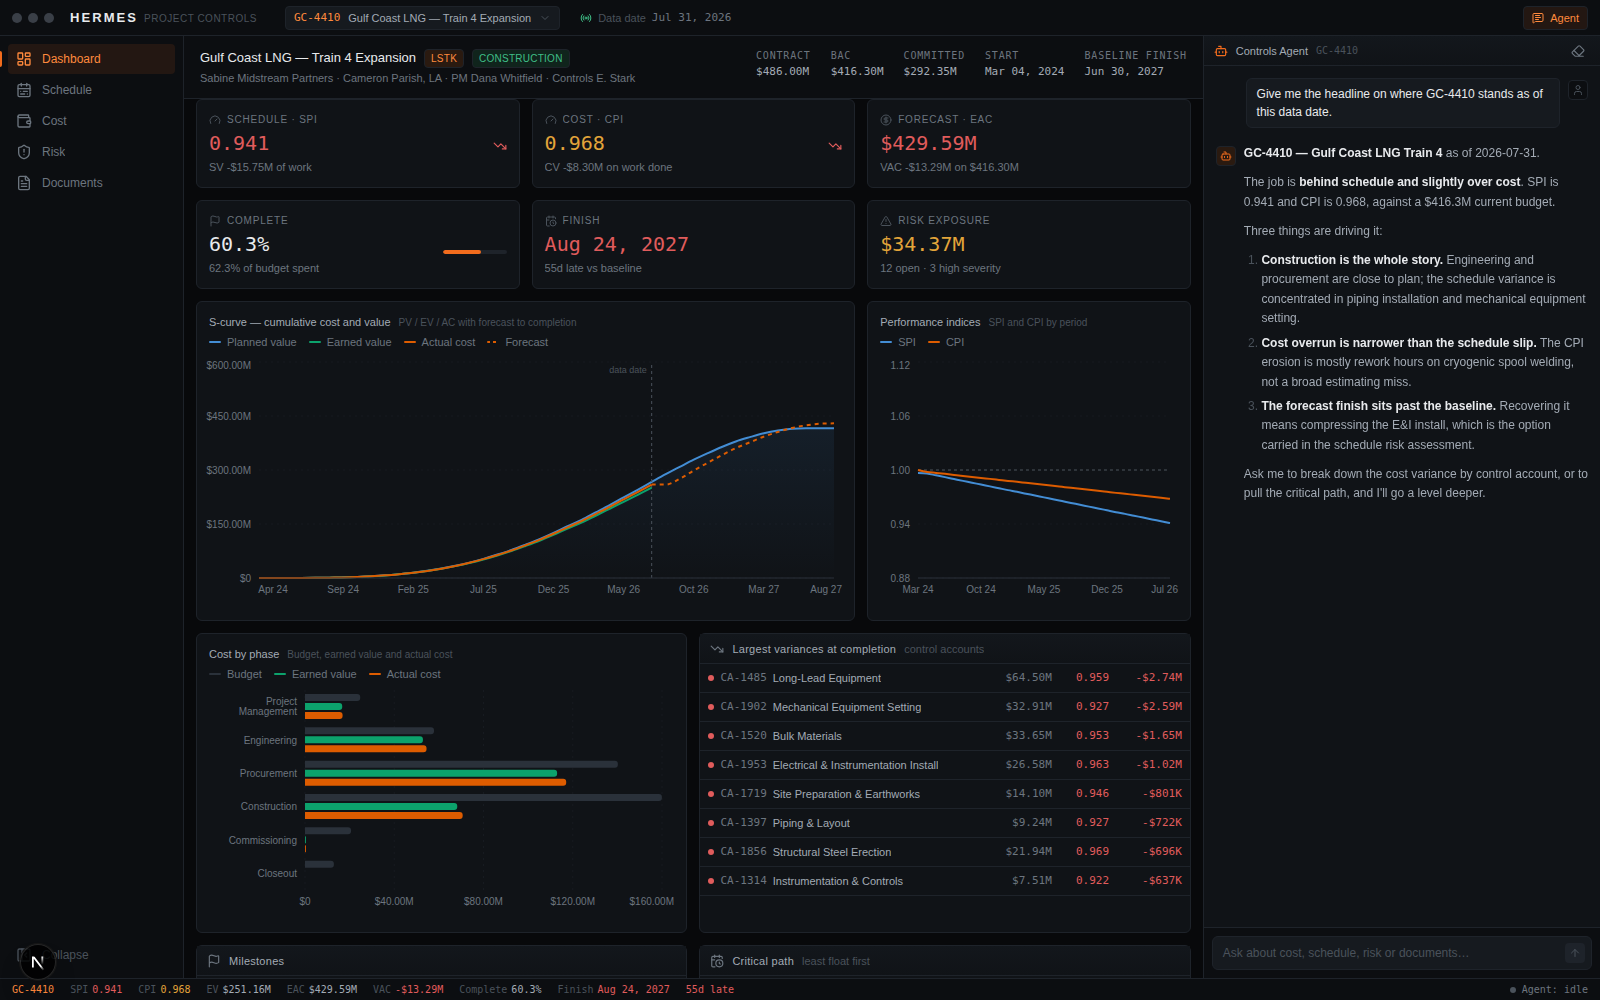
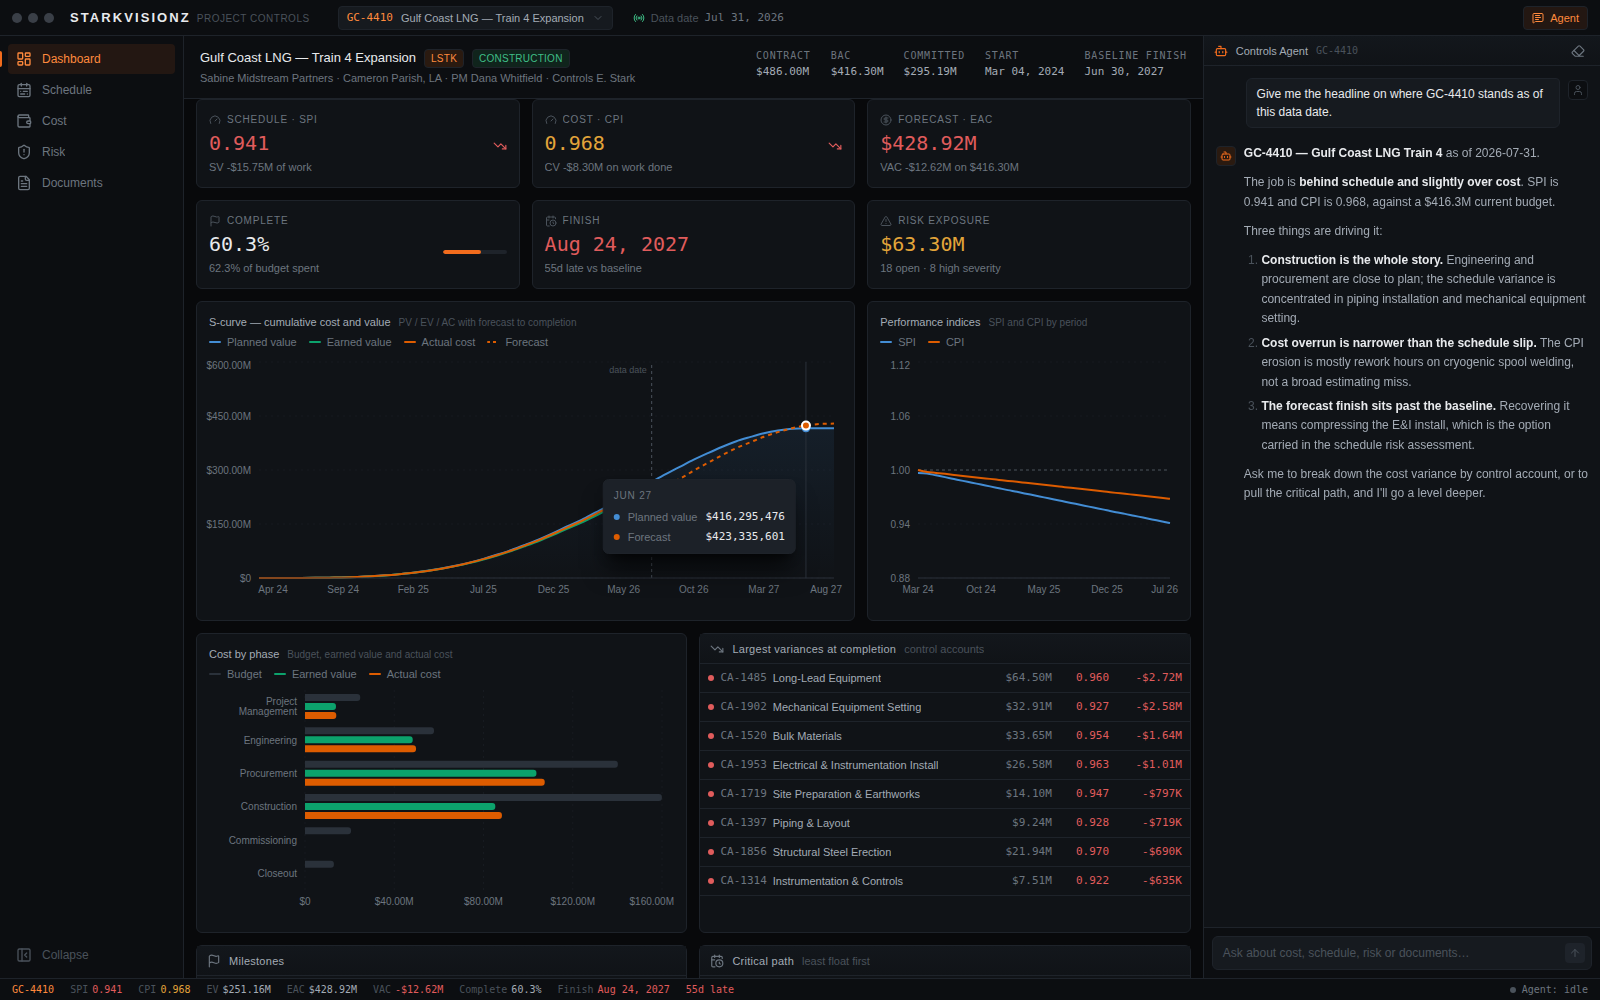
Rebrand from Hermes to Project Starkvisionz
Renames the product throughout: UI wordmark, page title, agent identity,
package name, database file, environment variables, session cookie, browser
storage keys, CSS keyframes, comments and documentation.

Naming
- "Project Starkvisionz" is the full product name, used where it stands alone
  (README title, browser tab, package description). "Starkvisionz" is used in
  running prose and as the STARKVISIONZ wordmark in the window chrome, so the
  descriptor stays "Project Controls" rather than reading "Project ... Project".
- Identifiers take a starkvisionz / STARKVISIONZ prefix uniformly rather than
  an invented abbreviation.

Breaking for any existing install
- STARKVISIONZ_AUTH_PASSWORD, STARKVISIONZ_SESSION_SECRET,
  STARKVISIONZ_TRUSTED_PROXIES and STARKVISIONZ_DB_PATH replace their HERMES_
  equivalents.
- The session cookie is now starkvisionz_session, so existing sessions are
  invalidated and users sign in again.
- The default database path is data/starkvisionz.db. An existing
  data/hermes.db is not migrated; re-run `npm run db:seed`.
- Browser storage keys changed, so the remembered project and panel layout
  reset once.

Left alone deliberately
- hermes-parser and hermes-estree in package-lock.json are Meta's JavaScript
  tooling pulled in transitively by eslint-config-next. They are third-party
  package names, not our branding, and renaming them would break resolution.

Verified after the rename: typecheck and lint clean, production build
[…]

diff --git a/src/lib/auth.ts b/src/lib/auth.ts
@@ -4,7 +4,7 @@ import { SESSION_COOKIE, SESSION_TTL_SECONDS } from "@/lib/session-cookie";
 /**
  * Single-operator authentication.
  *
- * Hermes holds a project's cost, schedule and commercial position — the kind of
+ * Starkvisionz holds a project's cost, schedule and commercial position — the kind of
  * data that should never be readable, and certainly never writable, by whoever
  * happens to find the host. This module gates the whole application behind one
  * operator credential, which is the right shape for a single-instance install.
@@ -41,8 +41,8 @@ function envValue(name: string): string | undefined {
  * is protected but is not.
  */
 export function authMode(): AuthMode {
-  const password = envValue("HERMES_AUTH_PASSWORD");
-  const secret = envValue("HERMES_SESSION_SECRET");
+  const password = envValue("STARKVISIONZ_AUTH_PASSWORD");
+  const secret = envValue("STARKVISIONZ_SESSION_SECRET");
   const isProduction = process.env.NODE_ENV === "production";
 
   if (!password) {
@@ -50,12 +50,12 @@ export function authMode(): AuthMode {
       ? {
           kind: "misconfigured",
           reason:
-            "HERMES_AUTH_PASSWORD is not set. Hermes will not serve project data " +
+            "STARKVISIONZ_AUTH_PASSWORD is not set. Starkvisionz will not serve project data " +
             "unauthenticated in production.",
         }
       : {
           kind: "open",
-          reason: "HERMES_AUTH_PASSWORD is not set — running unauthenticated for local development.",
+          reason: "STARKVISIONZ_AUTH_PASSWORD is not set — running unauthenticated for local development.",
         };
   }
 
@@ -63,11 +63,11 @@ export function authMode(): AuthMode {
     return isProduction
       ? {
           kind: "misconfigured",
-          reason: "HERMES_SESSION_SECRET is not set. Session cookies cannot be signed.",
+          reason: "STARKVISIONZ_SESSION_SECRET is not set. Session cookies cannot be signed.",
         }
       : {
           kind: "open",
-          reason: "HERMES_SESSION_SECRET is not set — running unauthenticated for local development.",
+          reason: "STARKVISIONZ_SESSION_SECRET is not set — running unauthenticated for local development.",
         };
   }
 
@@ -97,12 +97,12 @@ function safeEqual(a: string, b: string): boolean {
 /**
  * Checks a submitted password.
  *
- * `HERMES_AUTH_PASSWORD` may hold either a `scrypt$<saltHex>$<hashHex>` digest
+ * `STARKVISIONZ_AUTH_PASSWORD` may hold either a `scrypt$<saltHex>$<hashHex>` digest
  * (preferred — see `npm run auth:hash`) or a plain string, so an operator can
  * get running quickly and harden later without a code change.
  */
 export function verifyPassword(submitted: string): boolean {
-  const configured = envValue("HERMES_AUTH_PASSWORD");
+  const configured = envValue("STARKVISIONZ_AUTH_PASSWORD");
   if (!configured) return false;
 
   if (configured.startsWith("scrypt$")) {
@@ -120,7 +120,7 @@ export function verifyPassword(submitted: string): boolean {
   return safeEqual(submitted, configured);
 }
 
-/** Produces the `scrypt$salt$hash` form for HERMES_AUTH_PASSWORD. */
+/** Produces the `scrypt$salt$hash` form for STARKVISIONZ_AUTH_PASSWORD. */
 export function hashPassword(plain: string): string {
   const salt = randomBytes(16);
   const hash = scryptSync(plain, salt, 32);

diff --git a/src/app/globals.css b/src/app/globals.css
@@ -1,10 +1,10 @@
 @import "tailwindcss";
 
 /* ==========================================================================
-   Hermes — desktop design tokens
+   Project Starkvisionz — desktop design tokens
 
    A dark, low-chroma instrument panel. The greys carry a slight blue cast so
-   the single warm accent (Hermes orange) reads as the only "live" colour in
+   the single warm accent (Starkvisionz orange) reads as the only "live" colour in
    the interface; everything else recedes. Data colours are reserved strictly
    for meaning — never decoration.
    ========================================================================== */
@@ -28,7 +28,7 @@
   --color-ink-mute: #6c757f;      /* labels, captions */
   --color-ink-faint: #4a525b;     /* disabled, watermarks */
 
-  /* --- Accent (Hermes orange) ----------------------------------------- */
+  /* --- Accent (Starkvisionz orange) ----------------------------------------- */
   --color-accent: #f26c1d;
   --color-accent-hi: #ff8a3d;
   --color-accent-lo: #b84f11;
@@ -217,26 +217,26 @@ table,
    Motion
    ========================================================================== */
 
-@keyframes hermes-fade-up {
+@keyframes starkvisionz-fade-up {
   from { opacity: 0; transform: translateY(4px); }
   to   { opacity: 1; transform: translateY(0); }
 }
 
 .animate-in {
-  animation: hermes-fade-up 180ms ease-out both;
+  animation: starkvisionz-fade-up 180ms ease-out both;
 }
 
-@keyframes hermes-pulse {
+@keyframes starkvisionz-pulse {
   0%, 100% { opacity: 1; }
   50%      { opacity: 0.35; }
 }
 
 .animate-pulse-dot {
-  animation: hermes-pulse 1.4s ease-in-out infinite;
+  animation: starkvisionz-pulse 1.4s ease-in-out infinite;
 }
 
 /* The block that trails streaming agent text. */
-@keyframes hermes-caret {
+@keyframes starkvisionz-caret {
   0%, 45%  { opacity: 1; }
   50%, 95% { opacity: 0; }
 }
@@ -248,7 +248,7 @@ table,
   margin-left: 1px;
   vertical-align: text-bottom;
   background: var(--color-accent);
-  animation: hermes-caret 1s steps(1) infinite;
+  animation: starkvisionz-caret 1s steps(1) infinite;
 }
 
 @media (prefers-reduced-motion: reduce) {

diff --git a/src/lib/db.ts b/src/lib/db.ts
@@ -7,16 +7,16 @@ import path from "node:path";
  * every hot reload, so the connection is parked on globalThis to avoid leaking
  * file handles and re-running the schema on each edit.
  */
-const globalForDb = globalThis as unknown as { hermesDb?: Database.Database };
+const globalForDb = globalThis as unknown as { starkvisionzDb?: Database.Database };
 
 export function dbPath(): string {
-  const configured = process.env.HERMES_DB_PATH;
+  const configured = process.env.STARKVISIONZ_DB_PATH;
   if (configured && configured.trim()) return path.resolve(configured.trim());
-  return path.join(process.cwd(), "data", "hermes.db");
+  return path.join(process.cwd(), "data", "starkvisionz.db");
 }
 
 export function getDb(): Database.Database {
-  if (globalForDb.hermesDb) return globalForDb.hermesDb;
+  if (globalForDb.starkvisionzDb) return globalForDb.starkvisionzDb;
 
   const file = dbPath();
   fs.mkdirSync(path.dirname(file), { recursive: true });
@@ -26,7 +26,7 @@ export function getDb(): Database.Database {
   db.pragma("foreign_keys = ON");
   applySchema(db);
 
-  globalForDb.hermesDb = db;
+  globalForDb.starkvisionzDb = db;
   return db;
 }
 

diff --git a/src/middleware.ts b/src/middleware.ts
@@ -61,8 +61,8 @@ async function hasValidSession(token: string | undefined, secret: string): Promi
 export async function middleware(req: NextRequest) {
   const { pathname, search } = req.nextUrl;
 
-  const password = process.env.HERMES_AUTH_PASSWORD?.trim();
-  const secret = process.env.HERMES_SESSION_SECRET?.trim();
+  const password = process.env.STARKVISIONZ_AUTH_PASSWORD?.trim();
+  const secret = process.env.STARKVISIONZ_SESSION_SECRET?.trim();
   const isProduction = process.env.NODE_ENV === "production";
 
   // Unconfigured in production: refuse outright rather than serve the project
@@ -71,8 +71,8 @@ export async function middleware(req: NextRequest) {
     return NextResponse.json(
       {
         error:
-          "Hermes is not configured for authenticated access. Set HERMES_AUTH_PASSWORD " +
-          "and HERMES_SESSION_SECRET, then restart.",
+          "Starkvisionz is not configured for authenticated access. Set STARKVISIONZ_AUTH_PASSWORD " +
+          "and STARKVISIONZ_SESSION_SECRET, then restart.",
       },
       { status: 503 }
     );

diff --git a/src/lib/agent-context.ts b/src/lib/agent-context.ts
@@ -137,7 +137,7 @@ export function buildProjectBriefing(project: Project): string {
   return lines.join("\n");
 }
 
-export const AGENT_SYSTEM_PROMPT = `You are Hermes, the project-controls agent embedded in an EPC controls desktop application. You work for the project controls lead and speak the way an experienced controls manager speaks to a project director.
+export const AGENT_SYSTEM_PROMPT = `You are Starkvisionz, the project-controls agent embedded in an EPC controls desktop application. You work for the project controls lead and speak the way an experienced controls manager speaks to a project director.
 
 You will be given a PROJECT BRIEFING containing the current state of one project, generated live from the controls database at the data date shown. That briefing is your only source of fact.
 

diff --git a/src/components/shell/DesktopShell.tsx b/src/components/shell/DesktopShell.tsx
@@ -12,8 +12,8 @@ import { LoadingPane, StateMessage } from "@/components/ui/Controls";
 
 /** Persisted separately so each toggle is its own value, not a parsed blob. */
 const CHROME_KEYS = {
-  collapsed: "hermes.chrome.collapsed",
-  agentOpen: "hermes.chrome.agentOpen",
+  collapsed: "starkvisionz.chrome.collapsed",
+  agentOpen: "starkvisionz.chrome.agentOpen",
 } as const;
 
 /**
@@ -59,7 +59,7 @@ function ShellFrame({ children, authEnforced }: { children: ReactNode; authEnfor
   const [agentSource, setAgentSource] = useState<"claude" | "local" | null>(null);
 
   const { defaultLayout, onLayoutChanged } = useDefaultLayout({
-    id: "hermes.main",
+    id: "starkvisionz.main",
     storage: safeStorage,
     panelIds: ["workspace", "agent"],
     onlySaveAfterUserInteractions: true,

diff --git a/src/lib/rate-limit.ts b/src/lib/rate-limit.ts
@@ -72,11 +72,11 @@ export function consume(key: string, limit: Limit, now = Date.now()): RateResult
 
 /**
  * How many reverse proxies sit in front of this instance, from
- * `HERMES_TRUSTED_PROXIES`. Zero — the default — means the app is reached
+ * `STARKVISIONZ_TRUSTED_PROXIES`. Zero — the default — means the app is reached
  * directly and no forwarding header may be believed.
  */
 function trustedProxyCount(): number {
-  const raw = Number(process.env.HERMES_TRUSTED_PROXIES ?? 0);
+  const raw = Number(process.env.STARKVISIONZ_TRUSTED_PROXIES ?? 0);
   return Number.isInteger(raw) && raw > 0 ? raw : 0;
 }
 

diff --git a/src/components/schedule/TaskDetail.tsx b/src/components/schedule/TaskDetail.tsx
@@ -111,7 +111,7 @@ export function TaskDetail({
         <div className="mt-4 border-t border-line pt-3">
           <div className="label mb-2">Update progress</div>
 
-          {/* Hermes stores the network but does not solve it. Saying so beats
+          {/* Starkvisionz stores the network but does not solve it. Saying so beats
               letting a planner assume successors moved when they did not. */}
           <p className="mb-3 rounded-sm border border-line bg-raised px-2 py-1.5 text-[10px] leading-relaxed text-ink-mute">
             Progress updates flow through to earned value and the project&apos;s cost

diff --git a/src/components/chat/AgentPanel.tsx b/src/components/chat/AgentPanel.tsx
@@ -282,7 +282,7 @@ function Welcome({ onPick, disabled }: { onPick: (q: string) => void; disabled: 
       <div>
         <div className="mb-1 flex items-center gap-1.5">
           <Bot className="h-3.5 w-3.5 text-accent" />
-          <span className="text-xs font-medium text-ink">Hermes</span>
+          <span className="text-xs font-medium text-ink">Starkvisionz</span>
         </div>
         <p className="text-xs leading-relaxed text-ink-mute">
           I read this project&apos;s schedule, cost, risk and document registers directly. Ask me

diff --git a/src/app/login/page.tsx b/src/app/login/page.tsx
@@ -15,7 +15,7 @@ export default async function LoginPage({
     <div className="flex h-dvh items-center justify-center bg-canvas p-6">
       <div className="w-full max-w-[320px]">
         <div className="mb-6 text-center">
-          <div className="text-sm font-semibold tracking-[0.16em] text-ink">HERMES</div>
+          <div className="text-sm font-semibold tracking-[0.16em] text-ink">STARKVISIONZ</div>
           <div className="mt-0.5 text-[10px] uppercase tracking-wider text-ink-faint">
             Project Controls
           </div>

diff --git a/src/lib/agent-local.ts b/src/lib/agent-local.ts
@@ -14,7 +14,7 @@ import type { CostAccount, Project } from "@/lib/types";
 /**
  * The offline analyst.
  *
- * When no ANTHROPIC_API_KEY is configured, Hermes still has to answer — a
+ * When no ANTHROPIC_API_KEY is configured, Starkvisionz still has to answer — a
  * controls tool that goes blank without a network key is not much of a tool.
  * This module reads the same tables the Claude-backed path reads and composes
  * a grounded answer from them. It is deterministic and never invents figures.

diff --git a/src/components/shell/TitleBar.tsx b/src/components/shell/TitleBar.tsx
@@ -49,7 +49,7 @@ export function TitleBar({
       </div>
 
       <div className="ml-1 flex items-baseline gap-1.5">
-        <span className="text-sm font-semibold tracking-[0.16em] text-ink">HERMES</span>
+        <span className="text-sm font-semibold tracking-[0.16em] text-ink">STARKVISIONZ</span>
         <span className="text-[10px] uppercase tracking-wider text-ink-faint">
           Project Controls
         </span>
